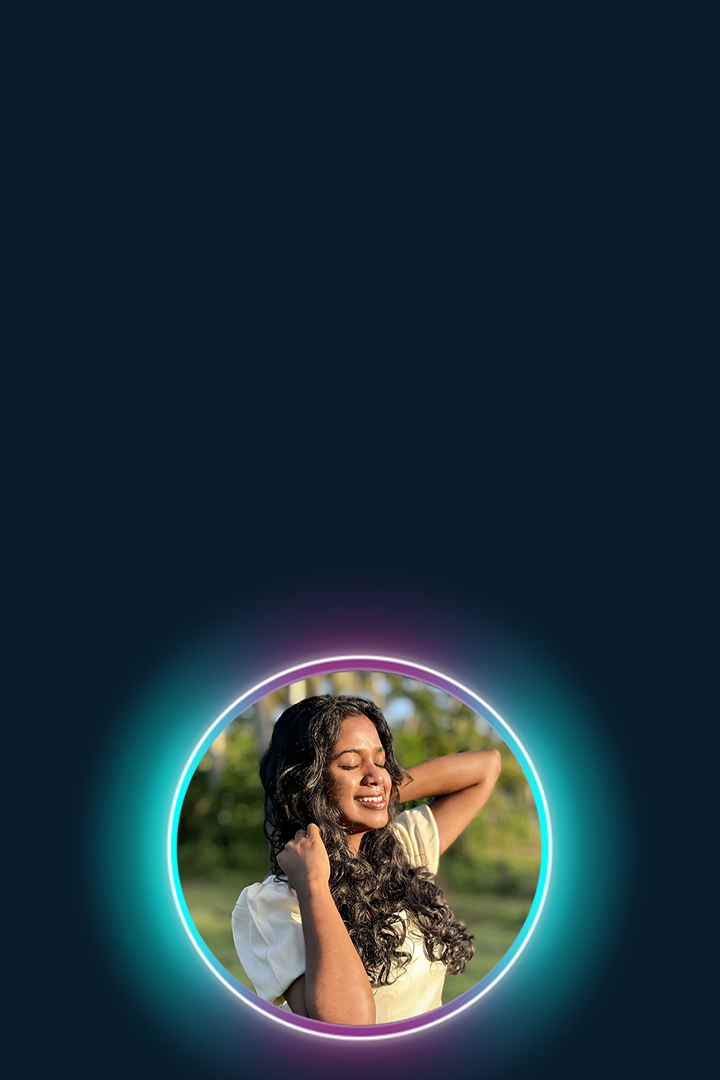
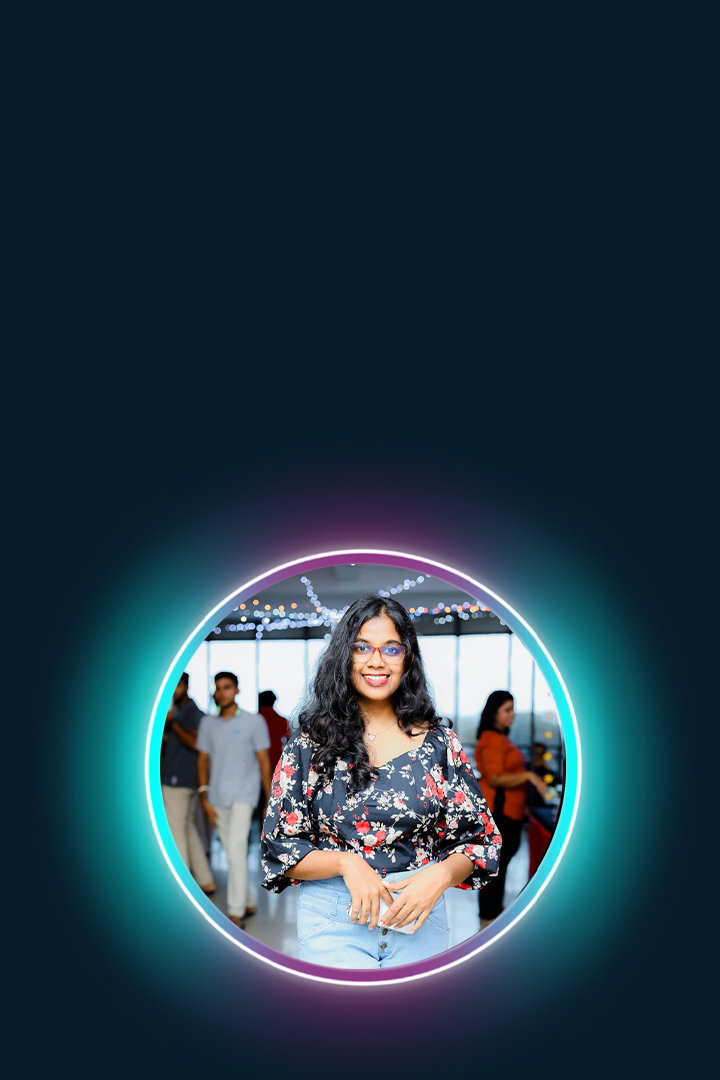
Initial commit

diff --git a/css/about.css b/css/about.css
@@ -6,7 +6,7 @@
     position: relative;
     width:100%;
     height: 100vh;
-    background: url('../images/about4.png') no-repeat;
+    background: url('../images/about3.png') no-repeat;
     background-size: cover;
     background-position: center;
     padding: 50px 10% 0; 
@@ -36,7 +36,7 @@ h2{
     opacity: 0.8;
     padding: 50px;
     max-width: 700px;
-    margin-top: 30px;
+    margin-top: 22px;
     margin-bottom: 40px;
     margin-left: 700px;
     border: 1px solid #081b29;
@@ -84,7 +84,7 @@ h2{
         background: rgba(19, 50, 72, 0.6); /* Solid background color */
         background-image: url('../images/about-m.png'); /* Add the image */
         background-repeat: no-repeat;
-        background-position: left center; /* Position image on the right side */
+        background-position: center; /* Position image on the right side */
         background-size: auto 100%; /* Ensure the image is sized vertically */
         margin-top: 50px;
     }
@@ -108,7 +108,12 @@ h2{
 
 @media (max-width: 480px) {
     .about {
-        padding: 20px 5%;
+        background: rgba(19, 50, 72, 0.6); /* Solid background color */
+        background-image: url('../images/about-m.png'); /* Add the image */
+        background-repeat: no-repeat;
+        background-position: center; /* Position image on the right side */
+        background-size: auto 100%; /* Ensure the image is sized vertically */
+        margin-top: 50px;
     }
 
     h2 {

diff --git a/css/home.css b/css/home.css
@@ -182,4 +182,59 @@
         text-align: left; /* Align button to the left */
         margin-top: -100px;
     }
+
+}
+
+
+@media (max-width: 480px) {
+    .home {
+        position: relative;
+        width: 100%;
+        height: auto; /* Allow height to adjust based on content */
+        background-color: rgba(19, 50, 72, 0.6); /* Add background color */
+        display: flex;
+        flex-direction: column; /* Stack items vertically */
+        align-items: center;
+        padding: 20px;
+    }
+
+    .home {
+        content: "";
+        position: absolute;
+        top: 0;
+        right: 0;
+        width: 100%;
+        height: 100vh;
+        background: url('../images/home-m.png') no-repeat center center;
+        background-size: cover;
+        z-index: -1; /* Ensure it's behind other content */
+        background-size: contain;
+    }
+
+    .home-content h1 {
+        font-size: 28px;
+    }
+
+    .home-content h3 {
+        font-size: 18px;
+    }
+
+    .home-sci a {
+        width: 25px;
+        height: 25px;
+        font-size: 14px;
+    }
+
+    .btn-box {
+        padding: 6px 14px;
+        font-size: 10px;
+    }
+
+    .container .text {
+        font-size: 20px;
+    }
+
+    .text.sec-text::before {
+        animation: animate 3s steps(10) infinite;
+    }
 }

diff --git a/Services.html b/Services.html
@@ -12,7 +12,7 @@
 </head>
 <body>
     <header class="header">
-        <a href="index.html" class="logo">Portfolio</a>
+        <a href="index.html" class="logo">Visna</a>
         <div class="menu-toggle" id="menu-toggle">
             <span></span>
             <span></span>

diff --git a/about.html b/about.html
@@ -13,7 +13,7 @@
 </head>
 <body>
     <header class="header">
-        <a href="index.html" class="logo">Portfolio</a>
+        <a href="index.html" class="logo">Visna</a>
         <div class="menu-toggle" id="menu-toggle">
             <span></span>
             <span></span>

diff --git a/contact.html b/contact.html
@@ -12,7 +12,7 @@
 </head>
 <body>
     <header class="header">
-        <a href="index.html" class="logo">Portfolio</a>
+        <a href="index.html" class="logo">Visna</a>
         <div class="menu-toggle" id="menu-toggle">
             <span></span>
             <span></span>

diff --git a/index.html b/index.html
@@ -12,7 +12,7 @@
 </head>
 <body>
     <header class="header">
-        <a href="index.html" class="logo">Portfolio</a>
+        <a href="index.html" class="logo">Visna</a>
         <div class="menu-toggle" id="menu-toggle">
             <span></span>
             <span></span>

diff --git a/portfolio.html b/portfolio.html
@@ -12,7 +12,7 @@
 </head>
 <body>
     <header class="header">
-        <a href="index.html" class="logo">Portfolio</a>
+        <a href="index.html" class="logo">Visna</a>
         <div class="menu-toggle" id="menu-toggle">
             <span></span>
             <span></span>
